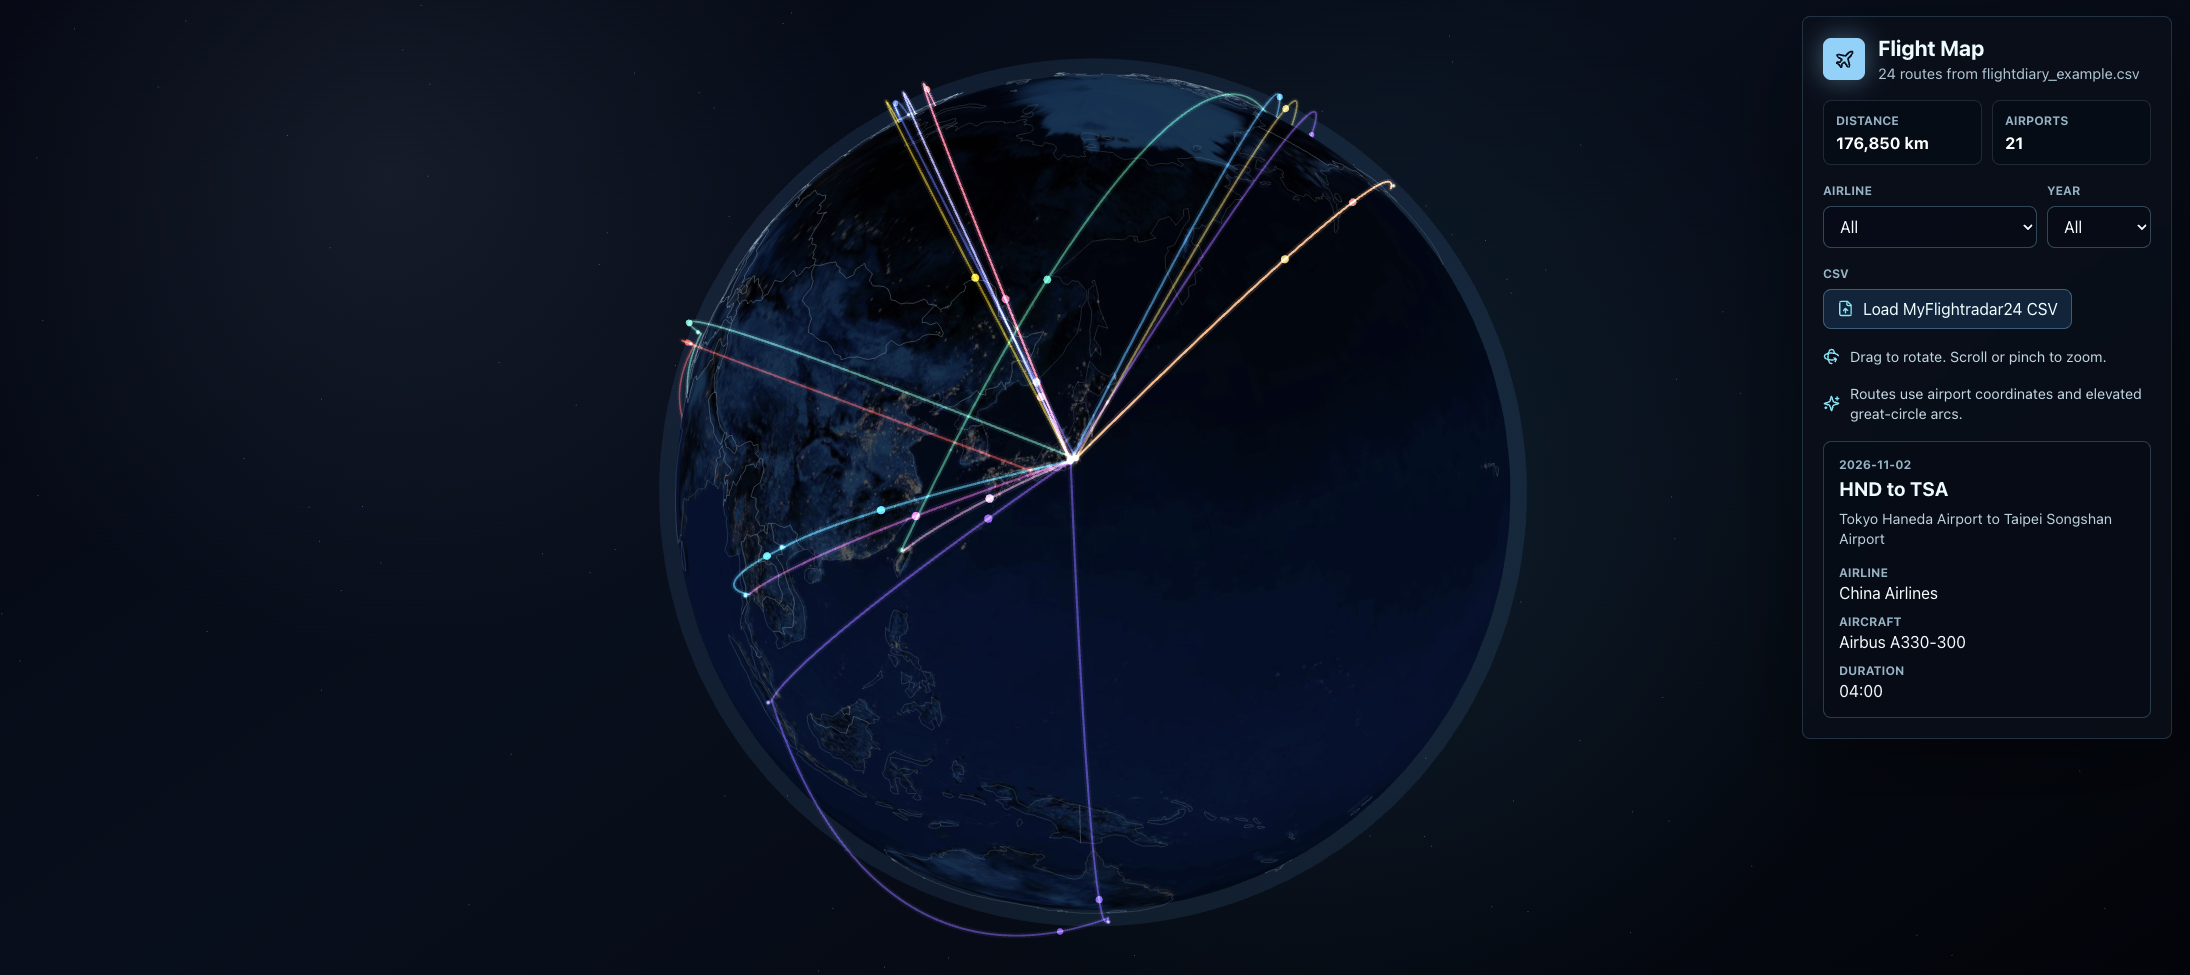
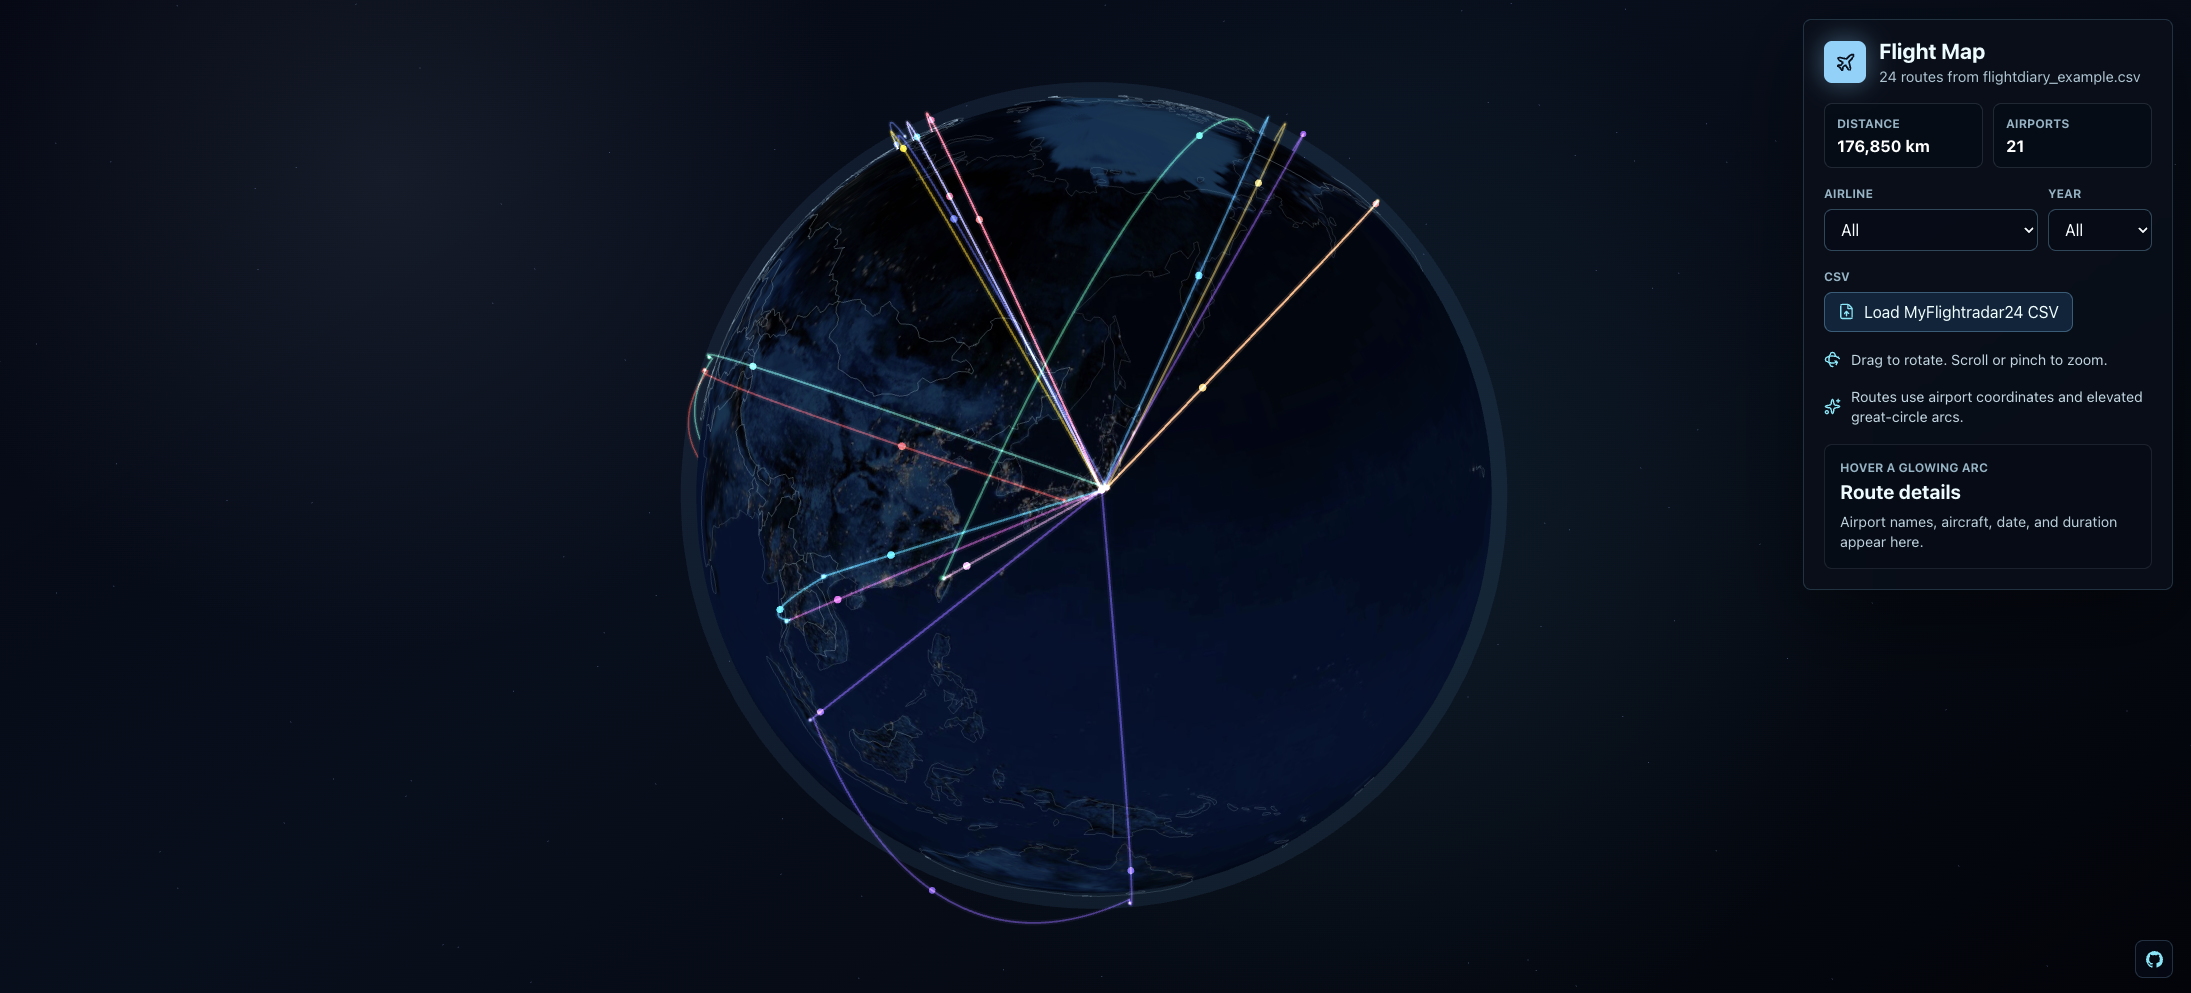
Add link to the repository

diff --git a/src/App.tsx b/src/App.tsx
@@ -138,6 +138,15 @@ export default function App(): ReactElement {
             {loadState.error}
           </div>
         ) : null}
+        <a
+          className="github-link"
+          href="https://github.com/yngyu/flight-map"
+          target="_blank"
+          rel="noreferrer"
+          aria-label="Open flight-map on GitHub"
+        >
+          <GitHubMark />
+        </a>
       </section>
 
       <aside className="control-panel" aria-label="Flight map controls">
@@ -274,6 +283,21 @@ export default function App(): ReactElement {
         ) : null}
       </aside>
     </main>
+  );
+}
+
+function GitHubMark(): ReactElement {
+  return (
+    <svg
+      className="github-mark"
+      width="17"
+      height="17"
+      viewBox="0 0 16 16"
+      fill="currentColor"
+      aria-hidden="true"
+    >
+      <path d="M8 0C3.58 0 0 3.58 0 8c0 3.54 2.29 6.53 5.47 7.59.4.07.55-.17.55-.38 0-.19-.01-.82-.01-1.49-2.01.37-2.53-.49-2.69-.94-.09-.23-.48-.94-.82-1.13-.28-.15-.68-.52-.01-.53.63-.01 1.08.58 1.23.82.72 1.21 1.87.87 2.33.66.07-.52.28-.87.51-1.07-1.78-.2-3.64-.89-3.64-3.95 0-.87.31-1.59.82-2.15-.08-.2-.36-1.02.08-2.12 0 0 .67-.21 2.2.82A7.65 7.65 0 0 1 8 3.86c.68 0 1.36.09 2 .27 1.53-1.04 2.2-.82 2.2-.82.44 1.1.16 1.92.08 2.12.51.56.82 1.27.82 2.15 0 3.07-1.87 3.75-3.65 3.95.29.25.54.73.54 1.48 0 1.07-.01 1.93-.01 2.2 0 .21.15.46.55.38A8.02 8.02 0 0 0 16 8c0-4.42-3.58-8-8-8Z" />
+    </svg>
   );
 }
 

diff --git a/src/styles.css b/src/styles.css
@@ -59,6 +59,37 @@ select {
   cursor: grabbing;
 }
 
+.github-link {
+  position: absolute;
+  right: 24px;
+  bottom: 18px;
+  z-index: 2;
+  display: inline-flex;
+  width: 38px;
+  height: 38px;
+  min-height: 36px;
+  justify-content: center;
+  align-items: center;
+  color: #d7eff8;
+  background: rgba(4, 12, 23, 0.66);
+  border: 1px solid rgba(125, 211, 252, 0.2);
+  border-radius: 8px;
+  font-size: 0.85rem;
+  line-height: 1;
+  text-decoration: none;
+  backdrop-filter: blur(12px);
+}
+
+.github-link:hover {
+  color: #ffffff;
+  border-color: rgba(103, 232, 249, 0.52);
+}
+
+.github-link svg {
+  flex: 0 0 auto;
+  color: #67e8f9;
+}
+
 .control-panel {
   position: absolute;
   top: 24px;
